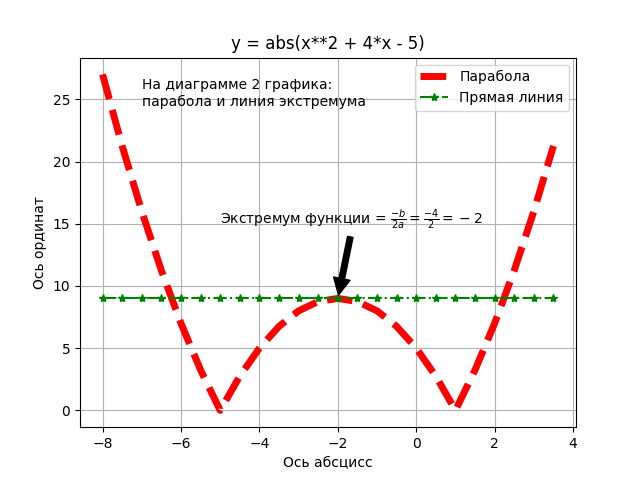
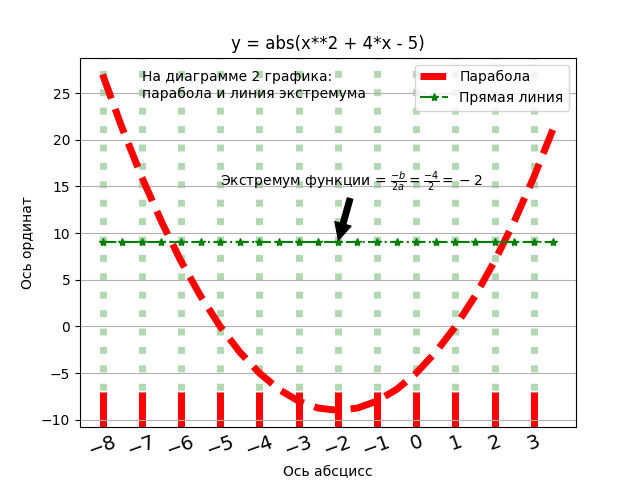
Поменяла шаг на оси OX

diff --git a/PythonApp1/PythonApp1.py b/PythonApp1/PythonApp1.py
@@ -2,27 +2,38 @@
 import numpy as np
 import matplotlib
 import matplotlib.pyplot as plt
+
 #https://www.stat.ee/pressiteade-2019-111
 #https://www.stat.ee/pressiteade-2019-104
 
 #Формирование данных и построение диаграммы
 x = np.arange(-8, 4, 0.5)  # x - массив np.array
-y1 = abs(x**2 + 4*x - 5)
+y1 = x**2 + 4*x - 5
 y2 = [9] * len(x)
 
 plt.subplots()
 plt.title("y = abs(x**2 + 4*x - 5)")
 plt.xlabel("Ось абсцисс")
 plt.ylabel("Ось ординат")
-
+plt.tick_params(axis="x", direction="in",length=25, width=5,color="red",labelsize=14, labelrotation=20)
+plt.grid(axis="x", color="green", alpha=.3, linewidth=5, linestyle=":")
+plt.xticks(np.arange(-8, 4, 1))
 plt.grid(True)# Отображение сетки на координатной плоскости
+
+
+
+
 plt.plot(x,y1 ,'--r',linewidth=5,label="Парабола")# График красного цвета
 plt.plot(x,y2,'-.g',marker="*",label="Прямая линия")
+
+
 plt.legend()
 plt.text(-7, 24.5, "На диаграмме 2 графика:\nпарабола и линия экстремума")
+
 plt.annotate(r"Экстремум функции = $\frac{-b}{2a} = \frac{-4}{2} = -2$",
                 xy=(-2, 9), xytext=(-5, 15),
                 arrowprops=dict(facecolor="black", shrink=0.05))
+
 plt.savefig("my_image.png")  # Сохранение изображения или
 plt.show()  # Вывод изображения на экран
 data = [
